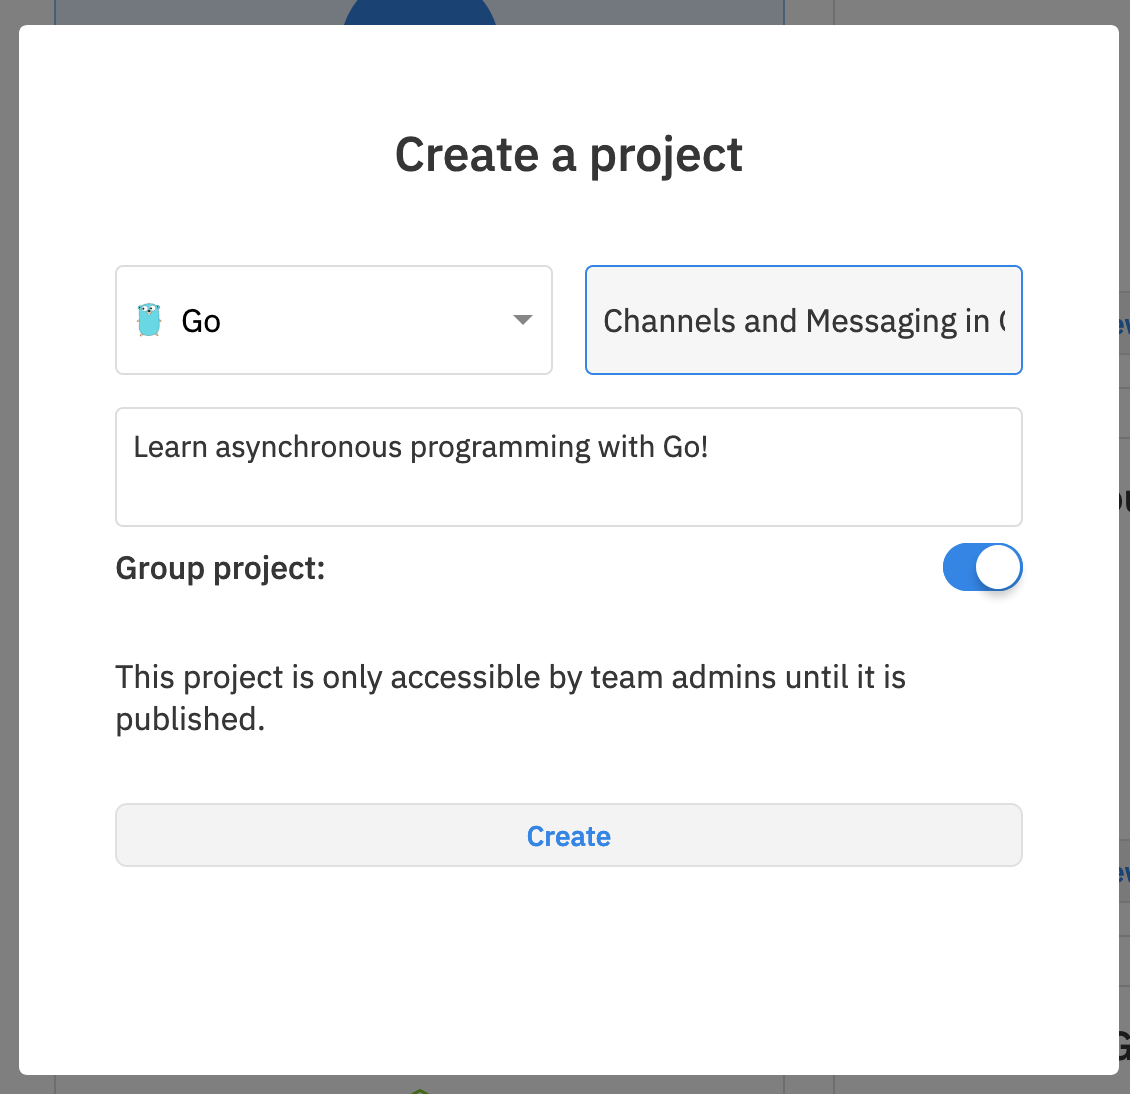
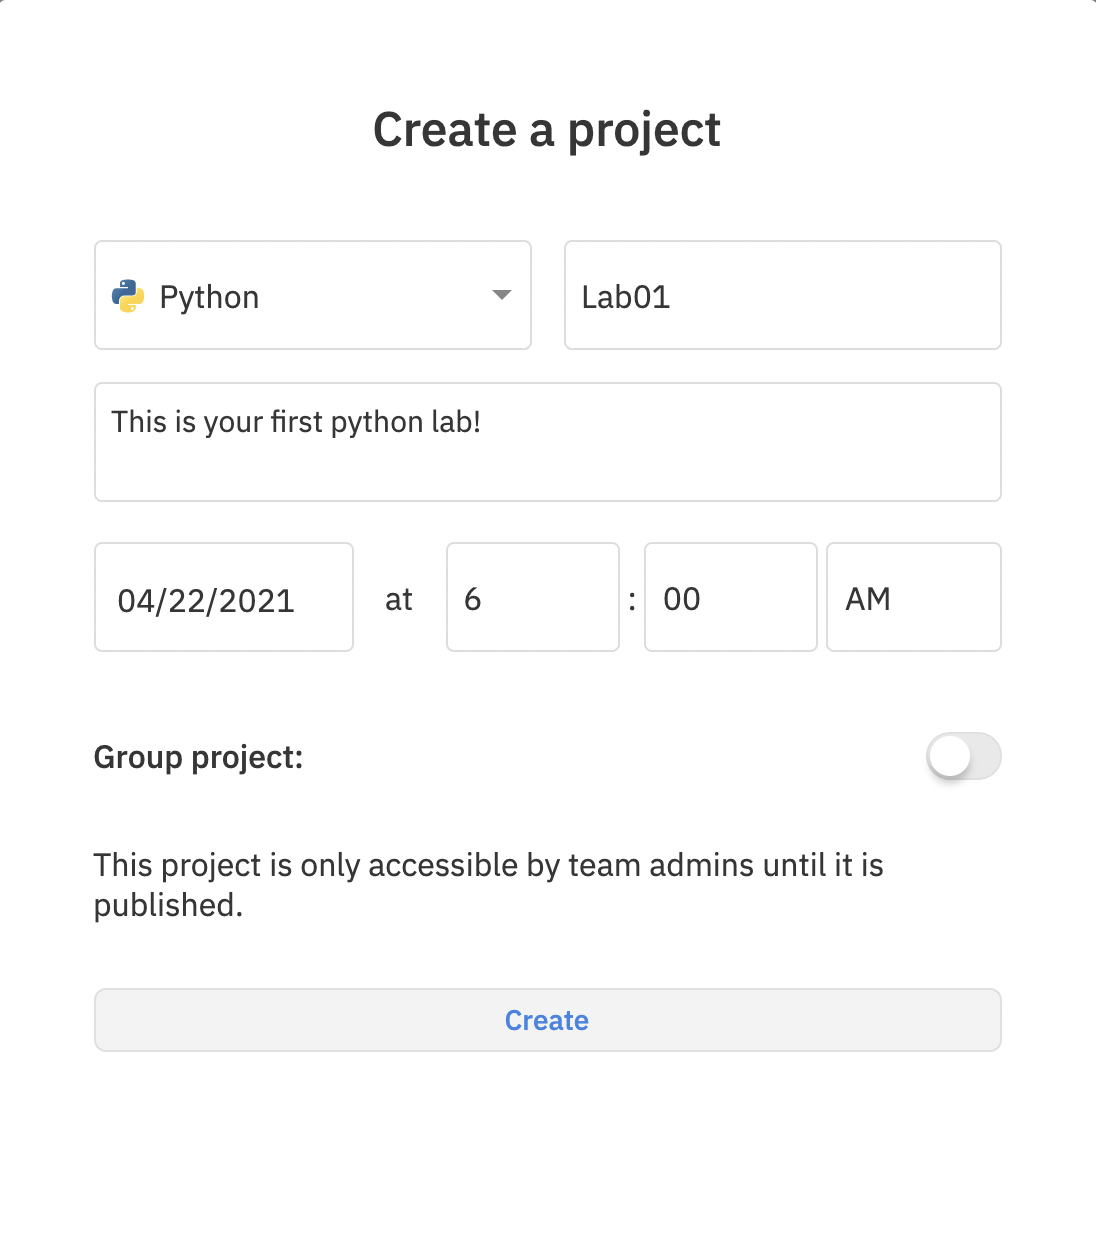
update teams set up and projects

diff --git a/Teams/Projects.md b/Teams/Projects.md
@@ -1,15 +1,22 @@
 
-## Project Creation and Submission
+## Creating Projects and Assignments
 
+Teams for Education include both Team Projects and Team Repls. 
+
+* **Team Projects** are visible and editable only by the teacher and each individual student or student group. These are great for assignments and group projects in which each student/group needs to work independently. 
+
+* **Team Repls** are visible and editable to everyone on the Team. These are great for collaborative coding exercises such as pair programming challenges and code alongs. 
+
+## Creating Team Projects
 From your team dashboard, create a new project.
 
-<img style="max-width: 350px" src="/images/teamsForEducation/project-create-button.png" />
+<img style="max-width: 250px" src="/images/teamsForEducation/project-create-button.png" />
 
-**Select project language, title, description, and whether this will be a group project.** You'll be redirected to the IDE to add any comments, tests, and initial coding blocks you'd like your students to start from.
+**Select project language, title, description, due date, and whether this will be a group project.** You'll be redirected to the IDE to add any comments, tests, and initial coding blocks you'd like your students to start from. You'll assign groups when you publish the project. 
 
 <img style="max-width: 600px" src="/images/teamsForEducation/project-create.png" />
 
-## Publishing
+### Publishing
 
 When you are done editing your project and it is ready to be published, click "Publish project" from the IDE.
 
@@ -19,24 +26,37 @@ A modal appears, where you can toggle the project between "Published" and "Unpub
 
 **For individual projects**, students are able to fork the project and create their own copy. Their copy will be private so that only the student and team admins can see and edit their work.
 
-**For group projects**, you must assign students into submission groups to collaborate. Click "Auto Assign" to automatically assign all students into equal groups. You can add and remove new groups, drag and drop students between groups, and search for students. Groups cannot be removed after saving, but students may be assigned into different groups later.
+**For group projects**, you can assign students into submission groups to collaborate. Click "Auto Assign" to automatically assign all students into equal groups or assign each group manually. You can add and remove new groups, drag and drop students between groups, and search for students. Groups cannot be removed after saving, but students may be reassigned into different groups later.
 
 Click "Save" to finalize any changes, or "Cancel" to discard changes.
 
 <img style="max-width: 600px" src="/images/teamsForEducation/project-publish.png" />
 
-## Submitting
+## Submitting Student Work 
 
-When students have completed their work on the project, they click "Submit" in the IDE header, which will notify all teachers of their submission. Students may have access to only one submission for each project.
+When students have completed their work on the project, they click "Submit" in the IDE header, which will notify all teachers of their submission. Students may continue working on projects and resubmit them after hitting "Submit." 
 
 <img style="max-width: 100px" src="/images/teamsForEducation/project-submit.png" />
 
 ## Reviewing Submissions
 
-Teachers are able to view project submissions from the team dashboard. Click "View submissions" on the project.
+Teachers can view project submissions from their team dashboard by clicking "View submissions" next to the project name.
 
 <img src="/images/teamsForEducation/project-list.png" />
 
-Submissions show the student project submitter, or all group participants on group projects. Click "View Repl" to see student code.
+Submissions will show all student projects submitted and in progress. Click "View Repl" to review each student or groups' code.
 
 <img src="/images/teamsForEducation/project-submissions.png" />
+
+To review student work in bulk: 
+* You can open the Projects Overview from your Team homepage to see all projects and student progress at-a-glance. 
+<img src="/images/teamsForEducation/project-overview.png" width="200px"/>
+<img src="/images/teamsForEducation/project-overview-grid.png" />
+* You can also navigate easily from one project to the next by clicking "View Repl" for any project, clicking on the book icon in the left bar, and using the Navigation pane to move between projects. 
+<img src="/images/teamsForEducation/project-overview-grid.png" height="300px" />
+
+
+Next Up:
+* [Annotations: Leaving Feedback on Projects
+](https://docs.replit.com/Teams/Annotations)
+* [Classroom Materials](https://docs.replit.com/Teams/Notes)

diff --git a/Teams/Intro.md b/Teams/Intro.md
@@ -1,33 +1,31 @@
 # Teams for Education
 
-[Teams for Education](https://repl.it/teams-for-education) adds key workflows for students and teachers on top of all the core Replit features. In this article, you'll learn how to sign up for a team and get started.
+[Teams for Education](https://replit.com/teams-for-education) adds key workflows for students and teachers on top of all the core Replit features. In this article, you'll:
+ * Learn how to sign up for a team
+ * Set up your Team 
+ * Get started with extra curriculum and teacher resources.
 
 ## Creating a Team
 
-A team is a collection of teachers (with admin privileges) and students. The platform is based around projects, which give students real-world experience. Each project can have multiple versions (often, one for each student or group), so students can all start from the same point, but extend the base project in different ways.
+A team is a collaborative workspace for teachers and students. The platform is based around projects, which give students real-world experience. Each project can have multiple versions (often, one for each student or group), so students can all start from the same point, but extend the base project in different ways.
 
 ### Signing up
 
-If you don't already have an account, sign up at [repl.it](https://repl.it). Now click on [Teams](https://repl.it/teams) in the sidebar on the left and choose the "Education" plan.
+If you don't already have an account, sign up at [Replit.com](https://repl.it). Now click on [Teams](https://replit.com/teams) in the sidebar on the left and choose the "Education" plan.
 
 ![](https://i.ritzastatic.com/images/d0ec5bfad4d24b299236083894aaec25/choose-plan.png)
 
-Input your payment information and confirm the order.
+You'll be prompted to input your payment information and confirm the order.
+(Need to pay another way? Email us at [sales@replit.com](mailto:sales@replit.com)!) 
 
 Now click on "Create team" and choose a username for your team.
 
 ![](https://i.ritzastatic.com/images/e85eb0653fc245e5a6f35341e27a5668/choose-username.png)
 
-
-Add a team profile picture and invite some users, either existing Repl.it users (by username) or new users (by entering their email address).
+### Inviting Teammates
+Add a team profile picture and [invite some users](https://docs.replit.com/Teams/Invitations). 
 
 ![](https://i.ritzastatic.com/images/9d314c5d5861488897ec9525258a4627/upload-pic.png)
 
 
-Now you can create your first team repl! Any team repl will automatically add your students and fellow teachers for seamless multiplayer collaboration. You can also create projects for your students to work on assignments. For more information, see our articles on
-
-* [Assignment workflow](./Projects)
-* [Tests and autograding](./Testing)
-
-
-
+Now you can start [building out your classroom materials](./Projects)! 
